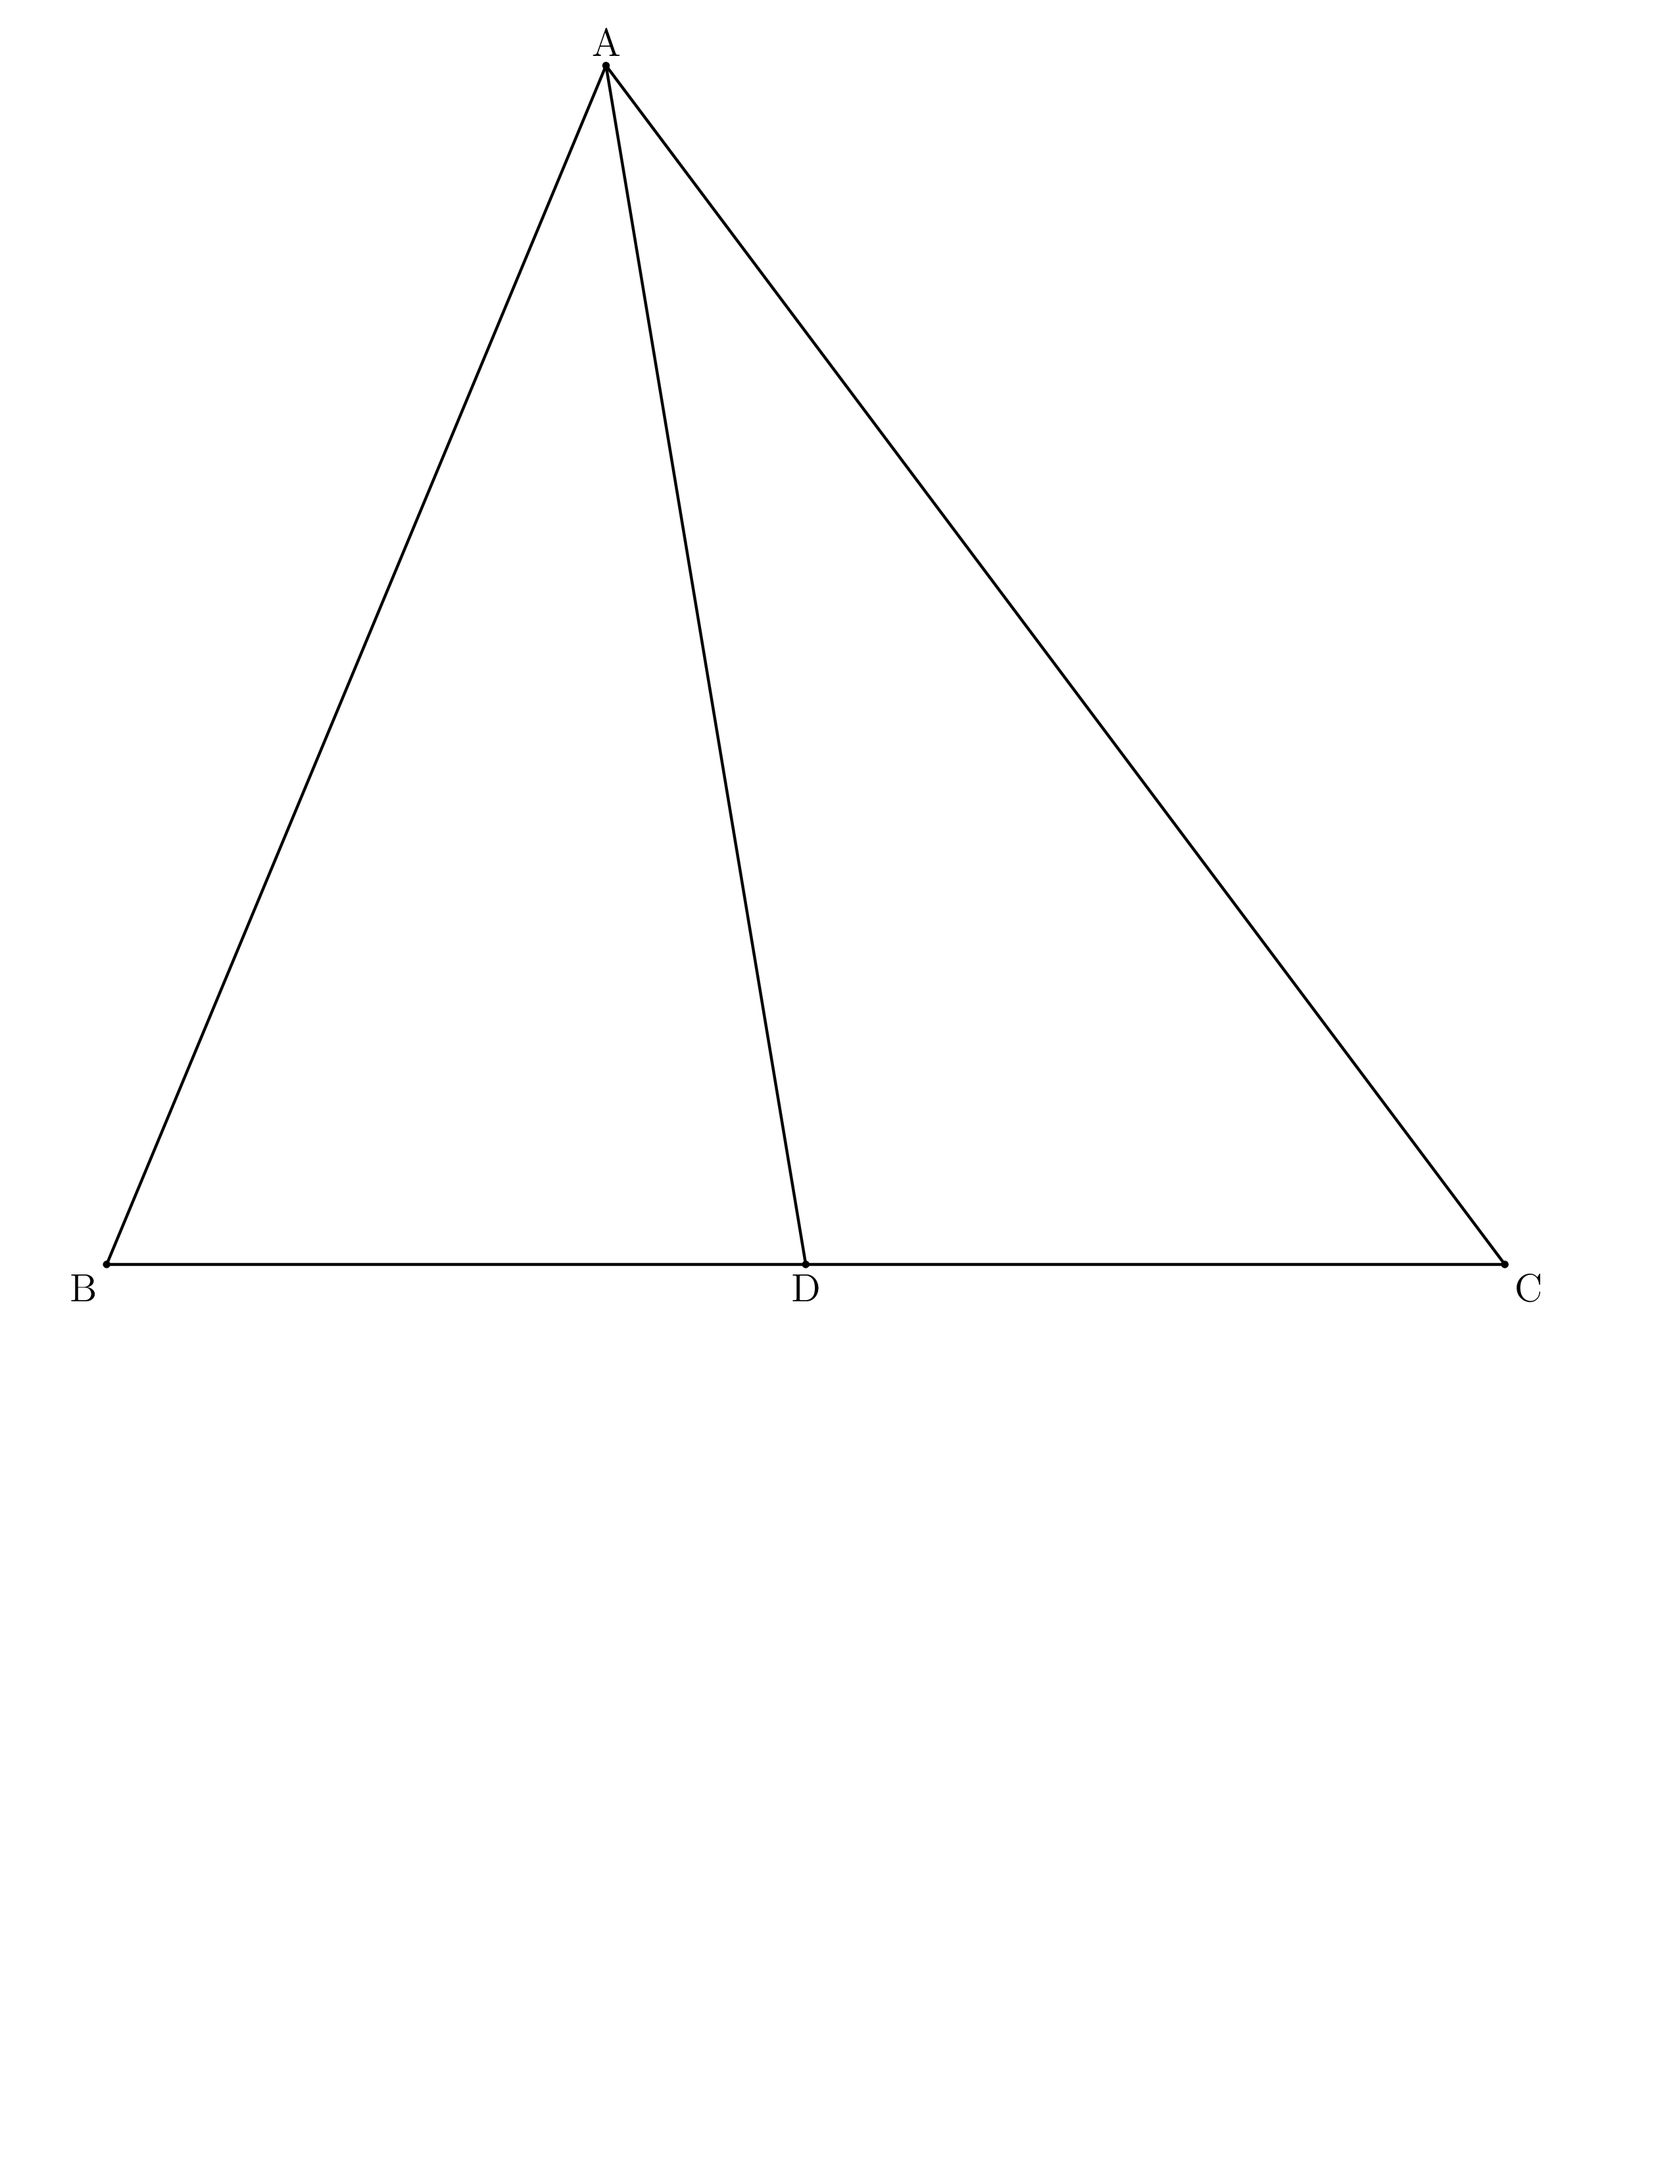
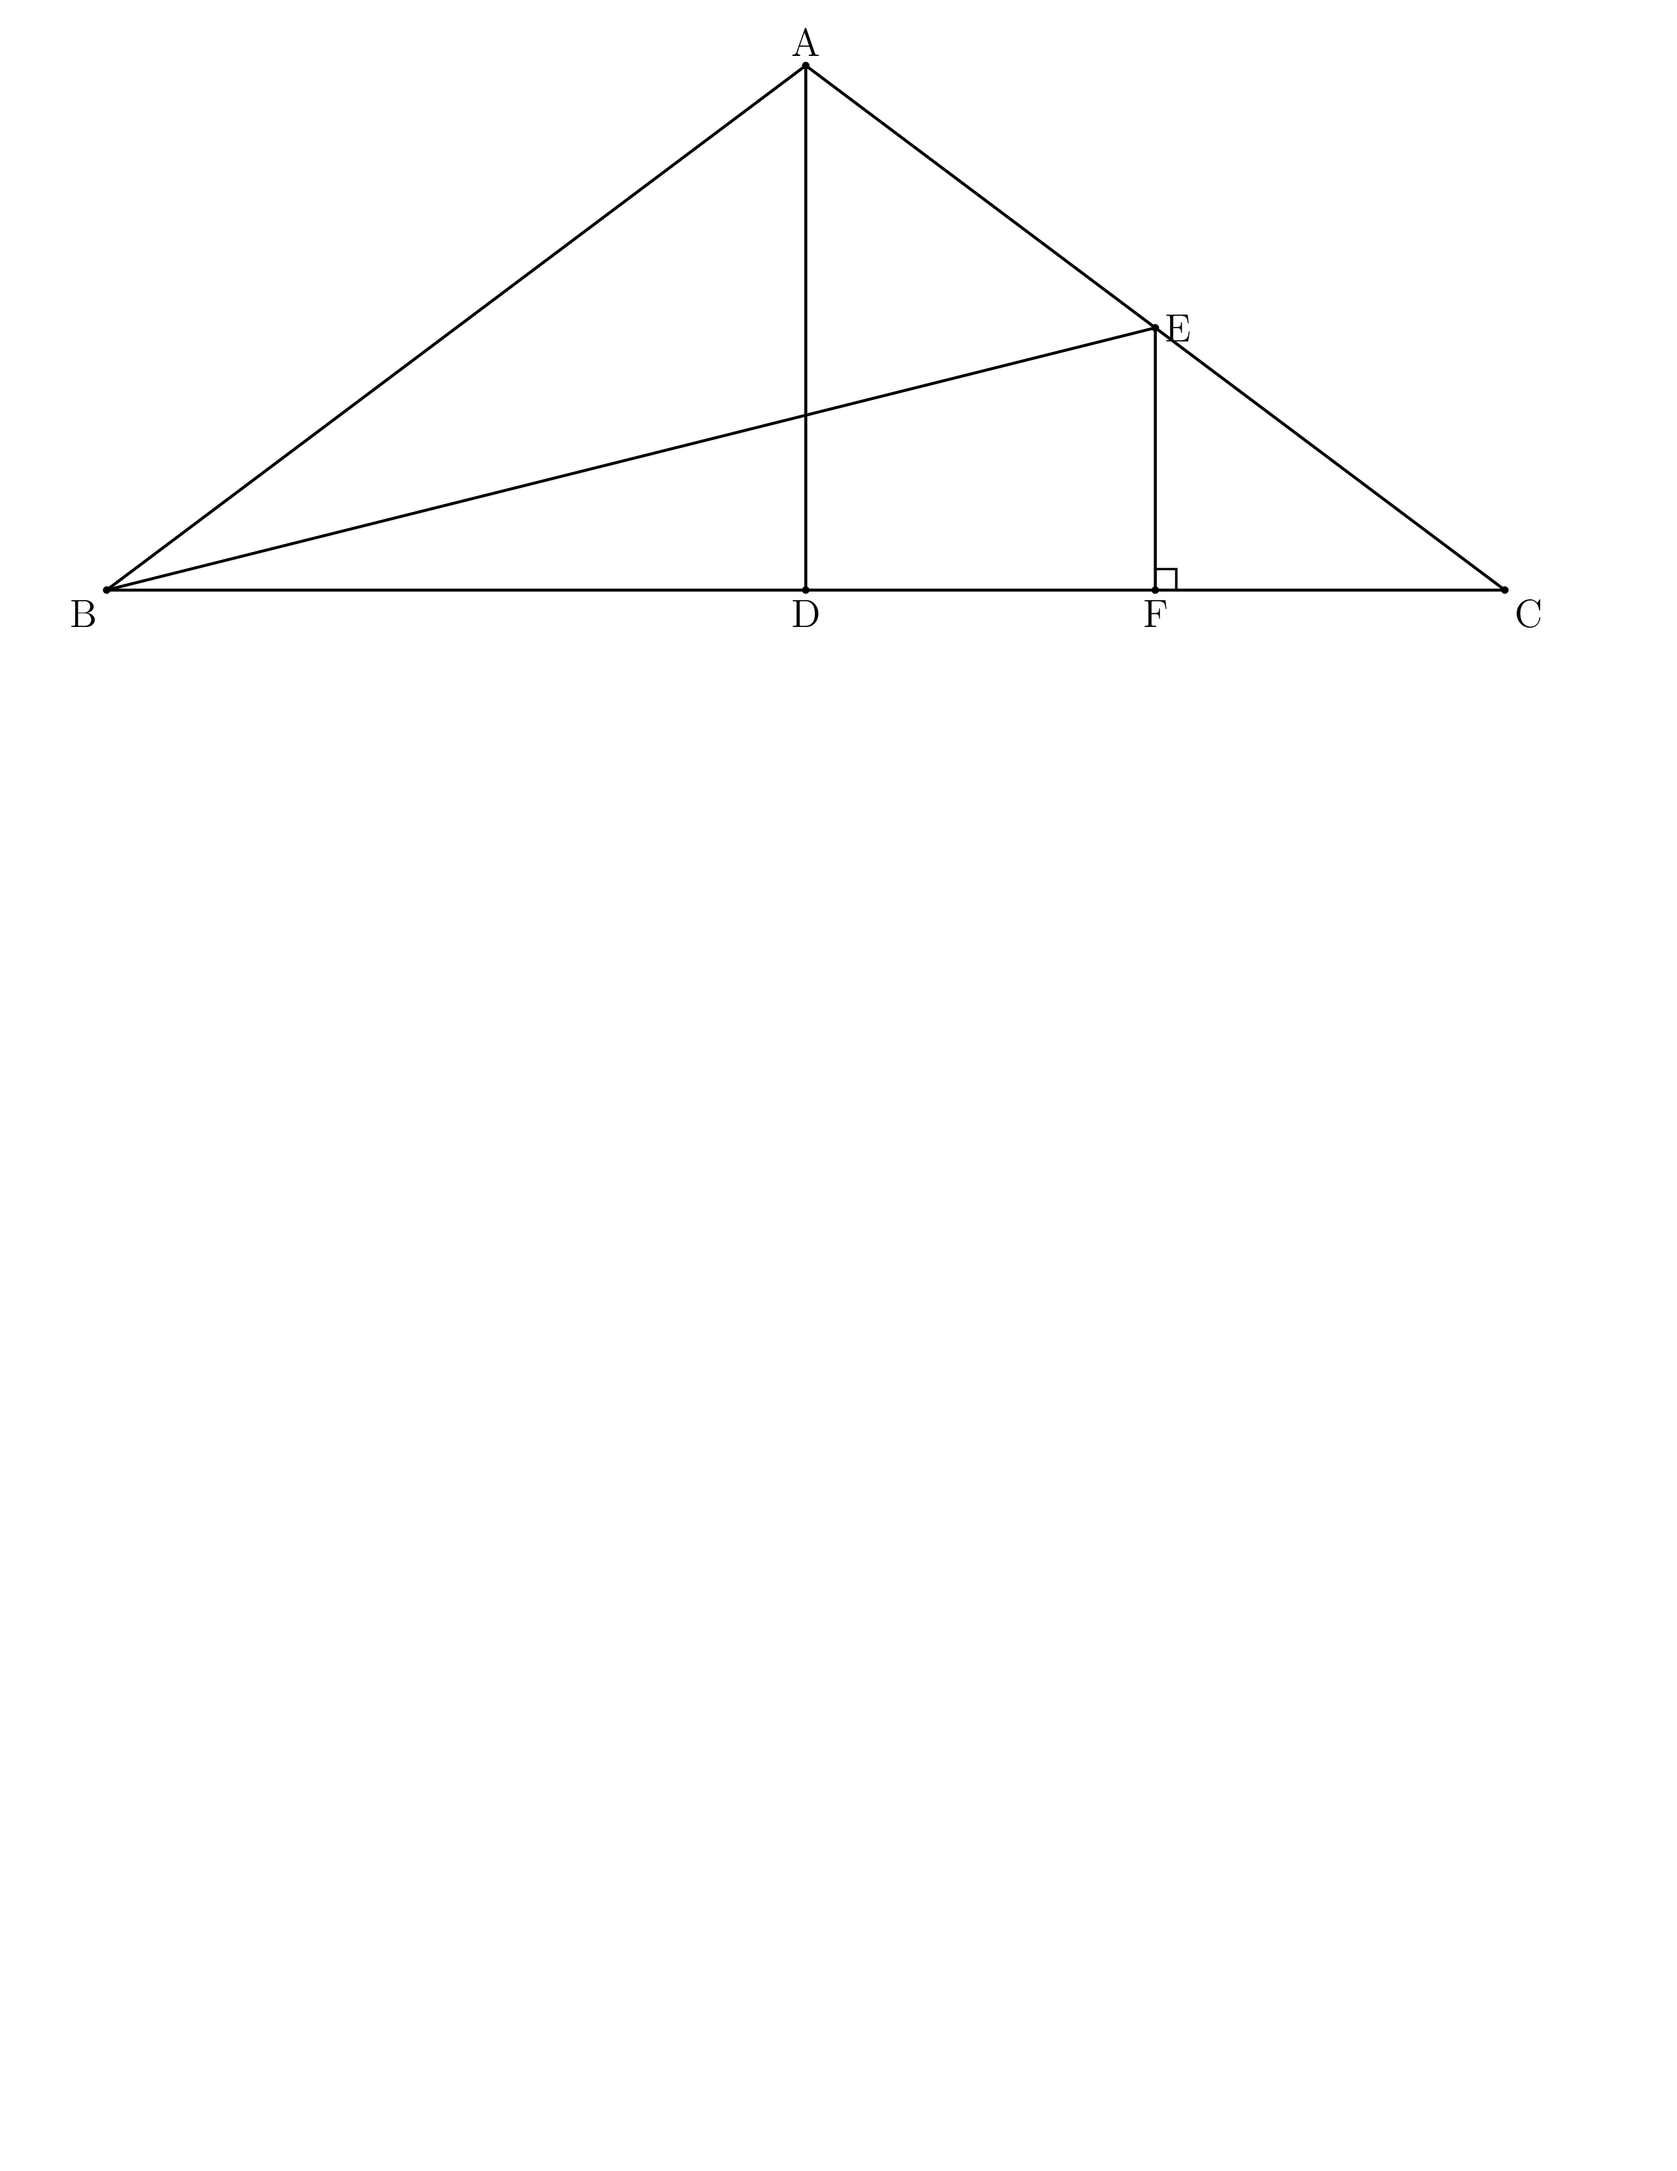
prompt looking decent ~229 lines

diff --git a/AI-Ed-clean/Circuit-Sketchpad/interactive_sketchpad/tikzdraw.tex b/AI-Ed-clean/Circuit-Sketchpad/interactive_sketchpad/tikzdraw.tex
@@ -13,17 +13,24 @@
 \begin{document}%
 \normalsize%
 \begin{tikzpicture}%
-\node[above,font=\Large] (A) at (-2.5714285714285716,15.42857142857143) {A};%
-\path[draw,fill=black,radius=0.04] (-2.5714285714285716,15.42857142857143) circle;%
+\node[above,font=\Large] (A) at (0.0,6.75) {A};%
+\path[draw,fill=black,radius=0.04] (0.0,6.75) circle;%
 \node[below left,font=\Large] (B) at (-9.0,0.0) {B};%
 \path[draw,fill=black,radius=0.04] (-9.0,0.0) circle;%
 \node[below right,font=\Large] (C) at (9.0,0.0) {C};%
 \path[draw,fill=black,radius=0.04] (9.0,0.0) circle;%
 \node[below,font=\Large] (D) at (0.0,0.0) {D};%
 \path[draw,fill=black,radius=0.04] (0.0,0.0) circle;%
-\path[line width = 1pt,draw] (-2.5714285714285716,15.42857142857143) -- (-9.0,0.0);%
-\path[line width = 1pt,draw] (-2.5714285714285716,15.42857142857143) -- (9.0,0.0);%
+\node[right,font=\Large] (E) at (4.5,3.375) {E};%
+\path[draw,fill=black,radius=0.04] (4.5,3.375) circle;%
+\node[below,font=\Large] (F) at (4.5,0.0) {F};%
+\path[draw,fill=black,radius=0.04] (4.5,0.0) circle;%
+\path[line width = 1pt,draw] (0.0,6.75) -- (-9.0,0.0);%
+\path[line width = 1pt,draw] (0.0,6.75) -- (9.0,0.0);%
 \path[line width = 1pt,draw] (-9.0,0.0) -- (9.0,0.0);%
-\path[line width = 1pt,draw] (-2.5714285714285716,15.42857142857143) -- (0.0,0.0);%
+\path[line width = 1pt,draw] (0.0,6.75) -- (0.0,0.0);%
+\path[line width = 1pt,draw] (-9.0,0.0) -- (4.5,3.375);%
+\path[line width = 1pt,draw] (4.5,3.375) -- (4.5,0.0);%
+\path[line width = 0.8pt,draw] (4.5,0.27) -- (4.77,0.27) -- (4.77,0.0);%
 \end{tikzpicture}%
 \end{document}

diff --git a/AI-Ed-clean/Circuit-Sketchpad/interactive_sketchpad/prompt_geometry.py b/AI-Ed-clean/Circuit-Sketchpad/interactive_sketchpad/prompt_geometry.py
@@ -230,4 +230,4 @@ If any check fails, revise the topology and re-verify before calling.
 
 #74 Come back after user study to add clear diagram functionality on whiteboard
 #76 give student more attempts to draw a correct diagram
-#8 and 81 question/task specification
+#8 and 81 question/task specification 
